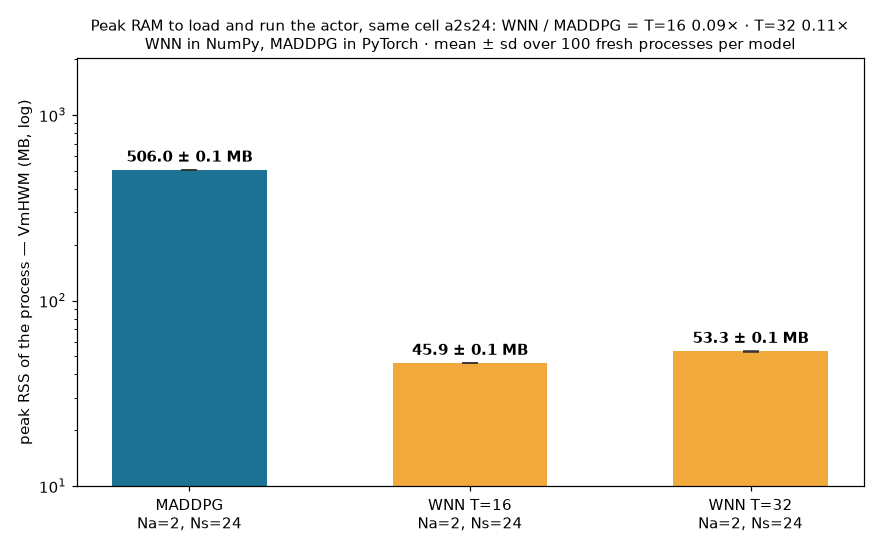
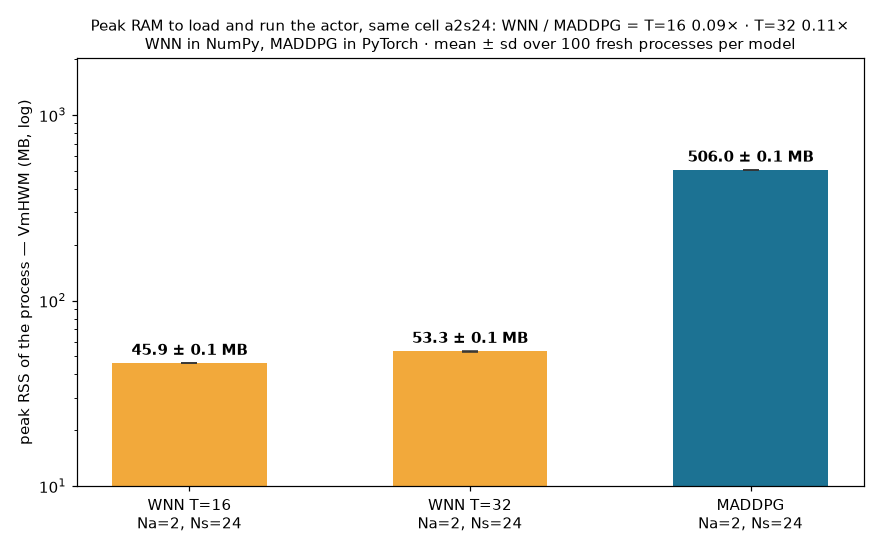
fix(spec06): barras do pico de RAM na mesma ordem da figura de latência (WNN T16, WNN T32, MADDPG)

diff --git a/scripts/spec06_figuras_merito.py b/scripts/spec06_figuras_merito.py
@@ -357,13 +357,15 @@ def figuras(m: dict, saida: Path) -> None:
     #    uma ordem de grandeza acima das WNN.
     if com_ram:
         fig, ax = plt.subplots(figsize=(8, 5))
-        rot = [f"MADDPG\nNa={na}, Ns={ns}"]
-        rams = [mad["ram"]]
-        cor = [TEAL]
-        for nome, w in m["wnn"].items():
+        # Mesma ordem da figura de latência: WNN T16, WNN T32, MADDPG.
+        rot, rams, cor = [], [], []
+        for nome, w in sorted(m["wnn"].items(), key=lambda kv: kv[1]["resolucao"]):
             rot.append(f"WNN T={w['resolucao']}\nNa={na}, Ns={ns}")
             rams.append(w["ram"])
             cor.append(AMBAR)
+        rot.append(f"MADDPG\nNa={na}, Ns={ns}")
+        rams.append(mad["ram"])
+        cor.append(TEAL)
         com_rep = all("pico_total_media_kb" in r for r in rams)
         tot = [_pico(r) / 1024 for r in rams]
         err = [r.get("pico_total_desvio_kb", 0.0) / 1024 for r in rams]
@@ -382,7 +384,7 @@ def figuras(m: dict, saida: Path) -> None:
                else "one process per model")
         ax.set_title(f"Peak RAM to load and run the actor, same cell {cel}: "
                      f"WNN / MADDPG = {razoes}\n"
-                     f"WNN in {rams[-1].get('arcabouco', 'NumPy')}, MADDPG in "
+                     f"WNN in {rams[0].get('arcabouco', 'NumPy')}, MADDPG in "
                      f"{mad['ram'].get('arcabouco', 'PyTorch')} · {sub}", fontsize=10)
         fig.tight_layout(); fig.savefig(saida / "t1_pico_ram.png", dpi=110); plt.close(fig)
         n_fig += 1
